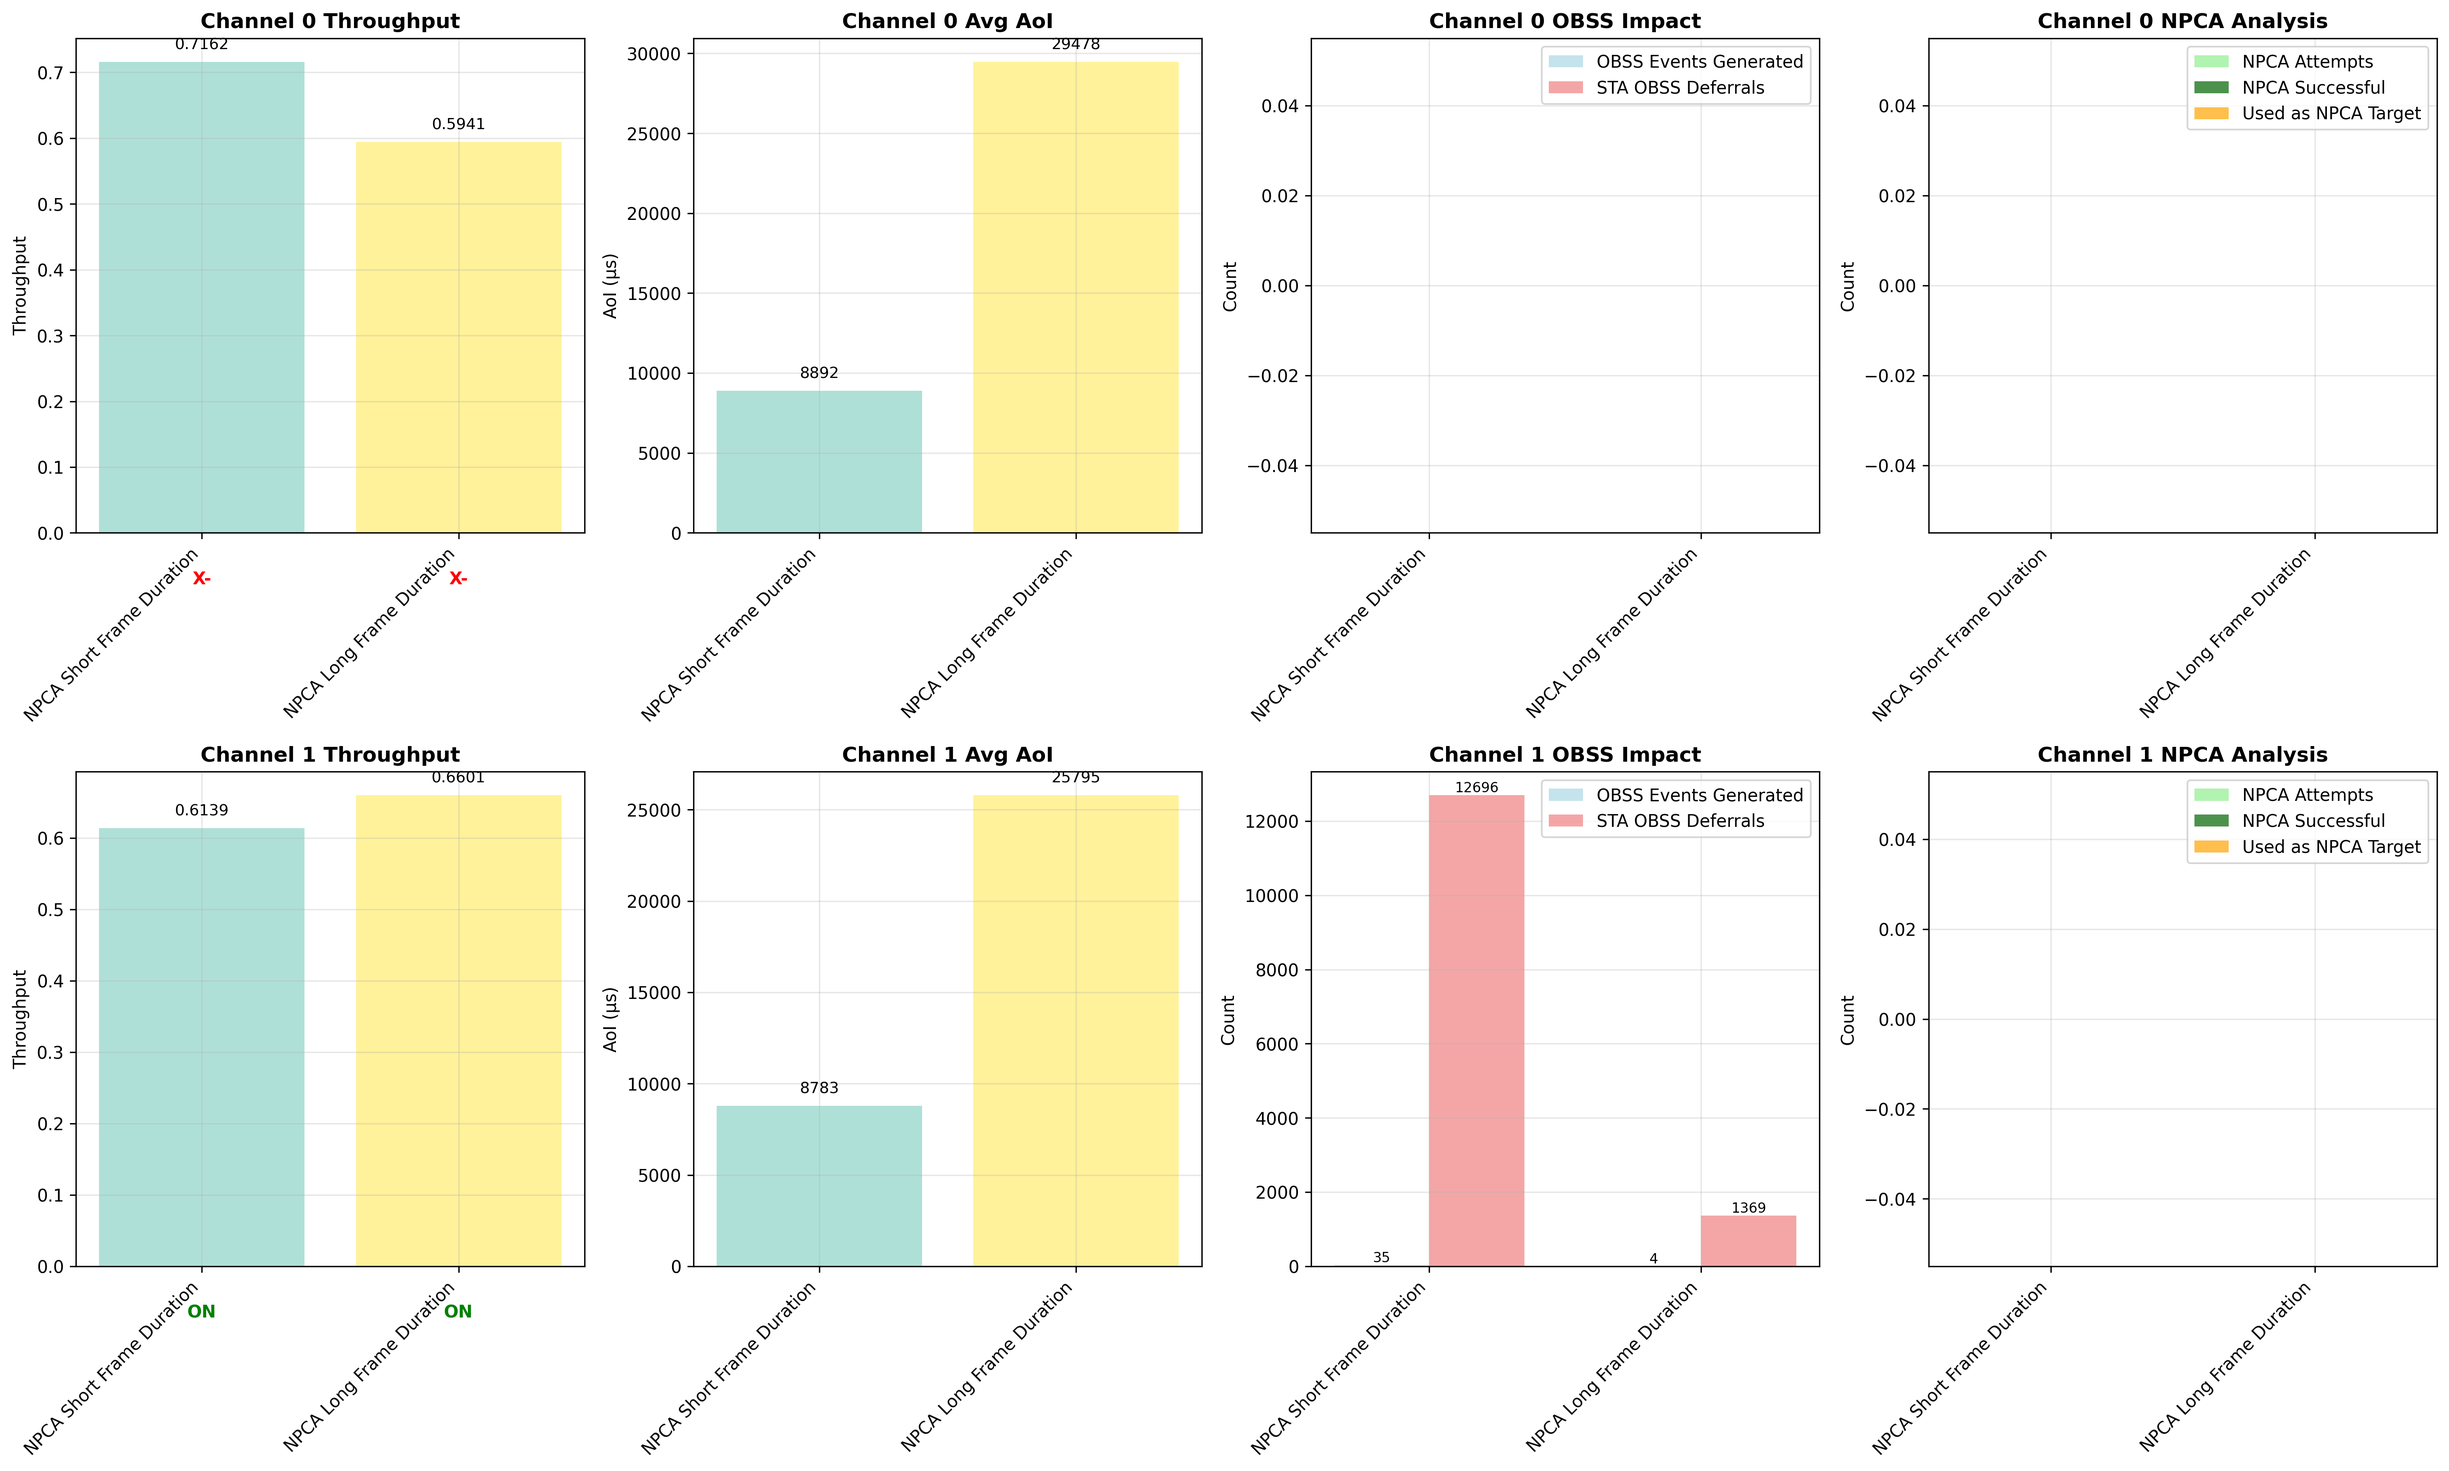
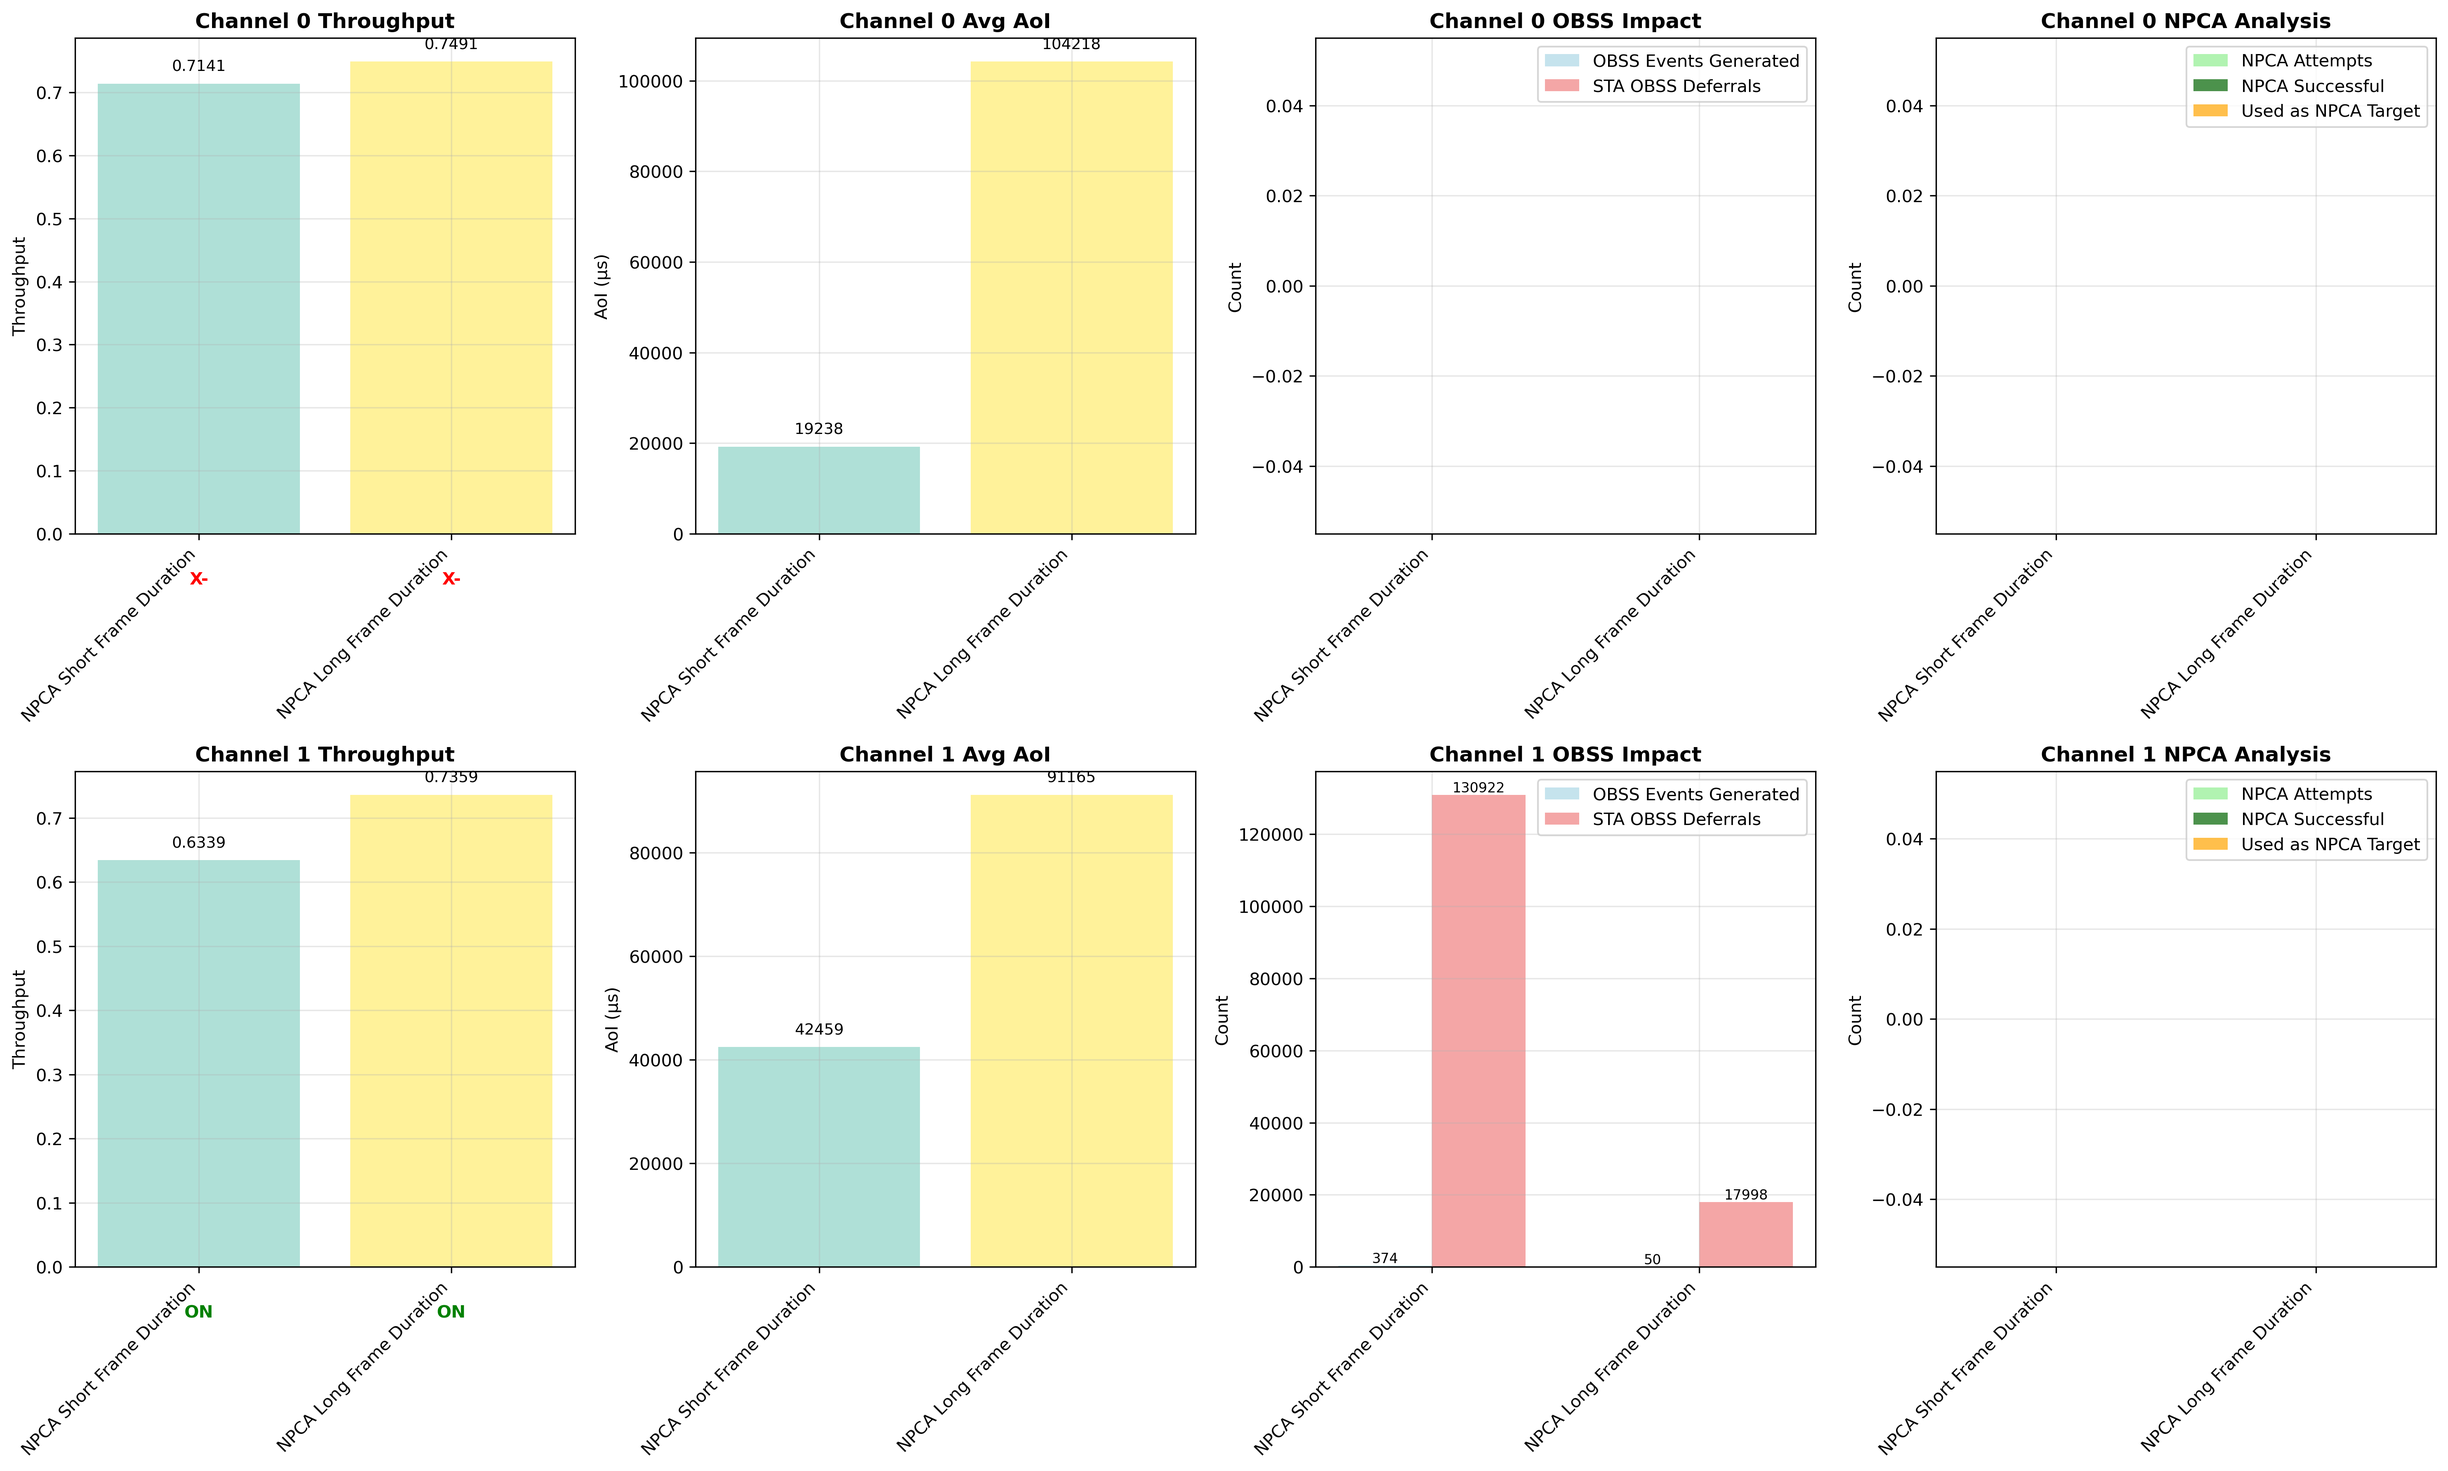
Update simulation time and refactor STAs per channel configuration for clarity

diff --git a/random_access/configs.py b/random_access/configs.py
@@ -1,8 +1,9 @@
 # Configuration
 
-simulation_time = 10000  # Total simulation time in us
+simulation_time = 100000  # Total simulation time in us
 simulation_slot = simulation_time // 9  # Slot duration in us (9us for 802.11ax)
 frame_size = 33  # Size of each frame in slots
+stas_per_channel = [10, 10]  # Number of STAs per channel
 
 simulation_configs = [
     # {
@@ -28,7 +29,7 @@ simulation_configs = [
     {
         "label": "NPCA Short Frame Duration", 
         "num_channels": 2,
-        "stas_per_channel": [10, 10],
+        "stas_per_channel": stas_per_channel,
         "simulation_time": simulation_time,
         "frame_size": frame_size,
         "obss_enabled_per_channel": [False, True],  # 채널 1에서만 OBSS 활성화
@@ -38,7 +39,7 @@ simulation_configs = [
     {
         "label": "NPCA Long Frame Duration",
         "num_channels": 2,
-        "stas_per_channel": [10, 10],
+        "stas_per_channel": stas_per_channel,
         "simulation_time": simulation_time,
         "frame_size": frame_size*10,
         "obss_enabled_per_channel": [False, True],  # 채널 1에서만 OBSS 활성화
